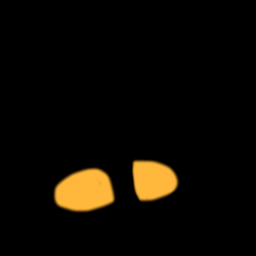
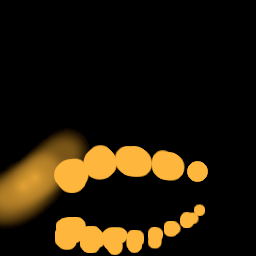
random patrols, fish flee, tried damage but didnt work

Changed region(s): [[0.0, 0.5, 0.8125, 1.0]]

diff --git a/Assets/Scripts/Components/EnemyFishAIComponent.cs b/Assets/Scripts/Components/EnemyFishAIComponent.cs
@@ -28,6 +28,8 @@ public class EnemyFishAIComponent : MonoBehaviour {
     private const float DAMAGE_STUN_TIME = 1.5f;
     
     public const float DAMAGED_VELOCITY = 5.0f;
+    public const float FLEE_PERCENT = 0.25f;
+    public const float FLEE_DISTANCE = 12.0f;
     
     [Header("Movement Attributes")]
     [Tooltip("Move speed while patrolling")]
@@ -129,6 +131,9 @@ public class EnemyFishAIComponent : MonoBehaviour {
         damageable.killedDelegates.Register(OnKilled);
         
         currentState = startState;
+        
+        // Randomize patrol direction to desync duplicate fishies
+        patrolState = UnityEngine.Random.value < 0.5f ? PatrolState.IdleA : PatrolState.IdleB;
     }
     
     void Update(){
@@ -167,7 +172,6 @@ public class EnemyFishAIComponent : MonoBehaviour {
                     patrolState = PatrolState.IdleB;
                 }
             } else if(patrolState == PatrolState.IdleB){
-                
                 if(patrolTimer.Finished()){
                     Vector3 moveTarget = originPosition
                                          - (Vector3.forward * patrolDistance) 
@@ -221,9 +225,18 @@ public class EnemyFishAIComponent : MonoBehaviour {
         } else if(currentState == FishAIState.AttackAbility){
         } else if(currentState == FishAIState.WaitingToAttackPlayer){
         } else if(currentState == FishAIState.Fleeing){
+            if(AtGoal()){
+                if(allowPatrollingState){
+                    SetState(FishAIState.Patrolling);
+                } else if(allowMotionlessState){
+                    SetState(FishAIState.Motionless);
+                } 
+            }
         } else if(currentState == FishAIState.Damaged){
             if(damageStunTimer.Finished()){
-                if(allowPursuingPlayerState){
+                if(allowFleeingState && damageable.CurrentHealth() / damageable.maxHealth <= FLEE_PERCENT){
+                    SetState(FishAIState.Fleeing);
+                } else if(allowPursuingPlayerState){
                     MoveTo(GetPlayerAttackReadyPosition());
                     SetState(FishAIState.PursuingPlayer);
                 } else if(allowAttackAbilityPlayerState){
@@ -276,7 +289,8 @@ public class EnemyFishAIComponent : MonoBehaviour {
         } else if(state == FishAIState.WaitingToAttackPlayer){
             // Animation idle
         } else if(state == FishAIState.Fleeing){
-            // Animation moving
+            Vector3 fromPlayer = transform.position - PlayerComponent.player.transform.position;
+            MoveTo(transform.position + (fromPlayer.normalized * FLEE_DISTANCE));
         } else if(state == FishAIState.Damaged){
             StopMoving();
             damageStunTimer.Start();

diff --git a/Assets/Scripts/Components/FogVolumeComponent.cs b/Assets/Scripts/Components/FogVolumeComponent.cs
@@ -9,7 +9,6 @@ public class FogVolumeComponent : MonoBehaviour {
     public float daylightPercentage;
         
     private void OnTriggerEnter(Collider other){
-        Debug.Log(other.gameObject);
         if(other.tag == "Player"){
             LightingManagerComponent.instance.ChangeLighting(daylightPercentage);
         }

diff --git a/Assets/Scripts/Components/DamageableComponent.cs b/Assets/Scripts/Components/DamageableComponent.cs
@@ -32,6 +32,7 @@ public enum DamageType {
     PlayerTrident,
     GenericFishAttack,
     ChargeFishAttack,
+    FishCollision,
 }
 
 //##################################################################################################
